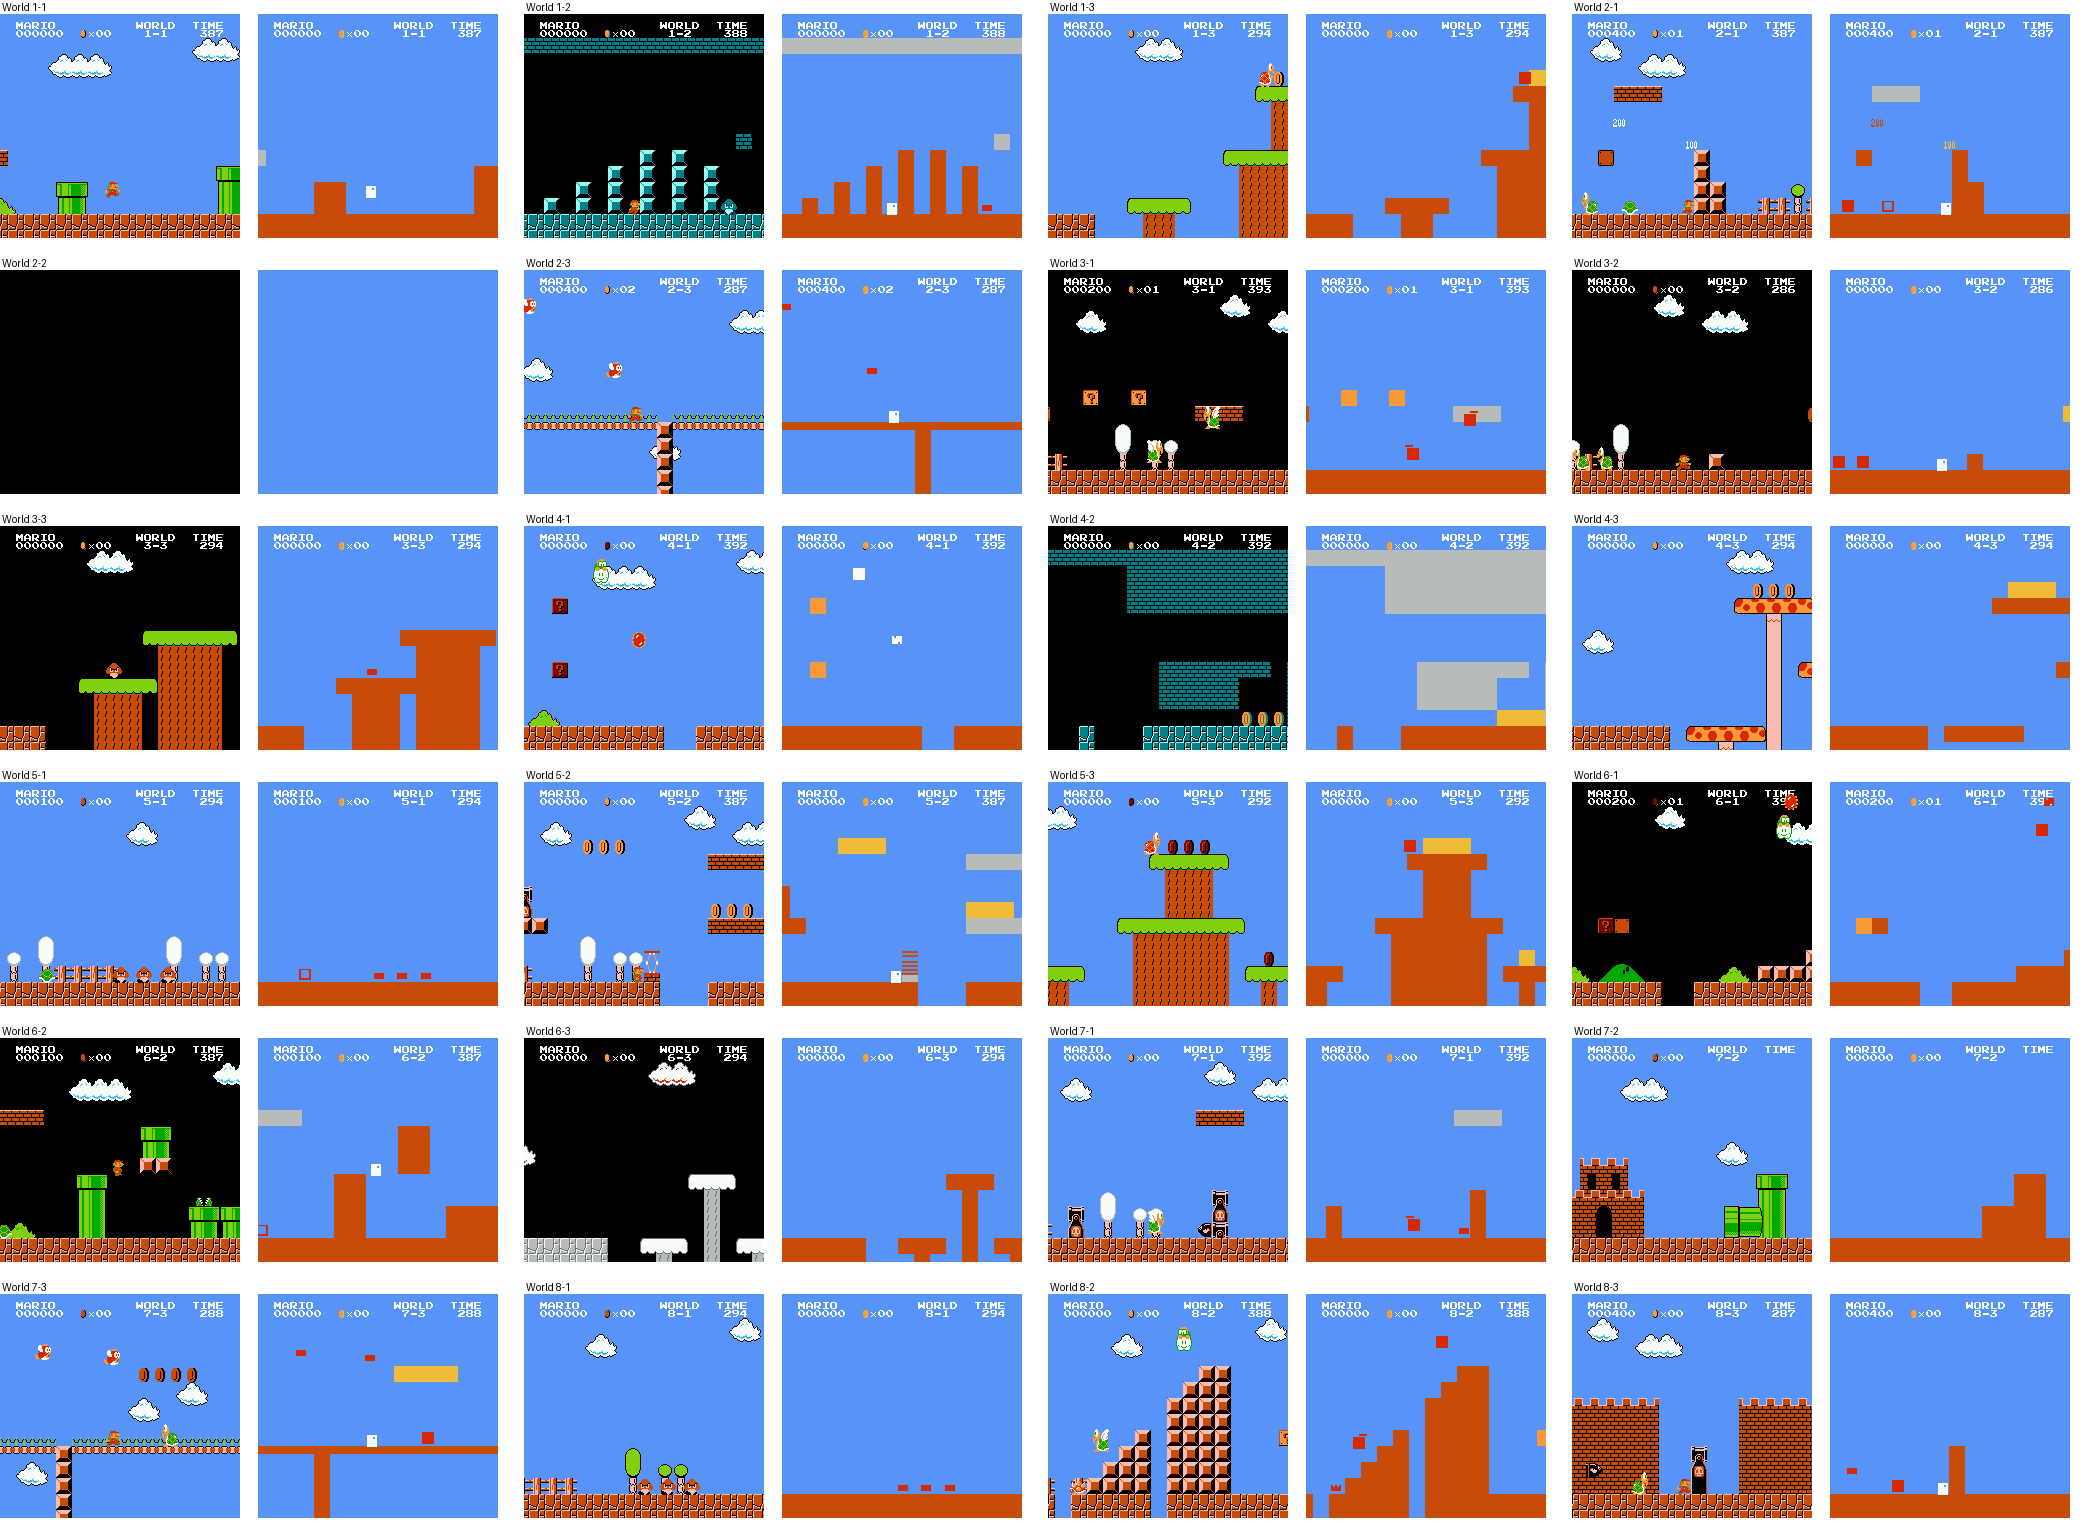
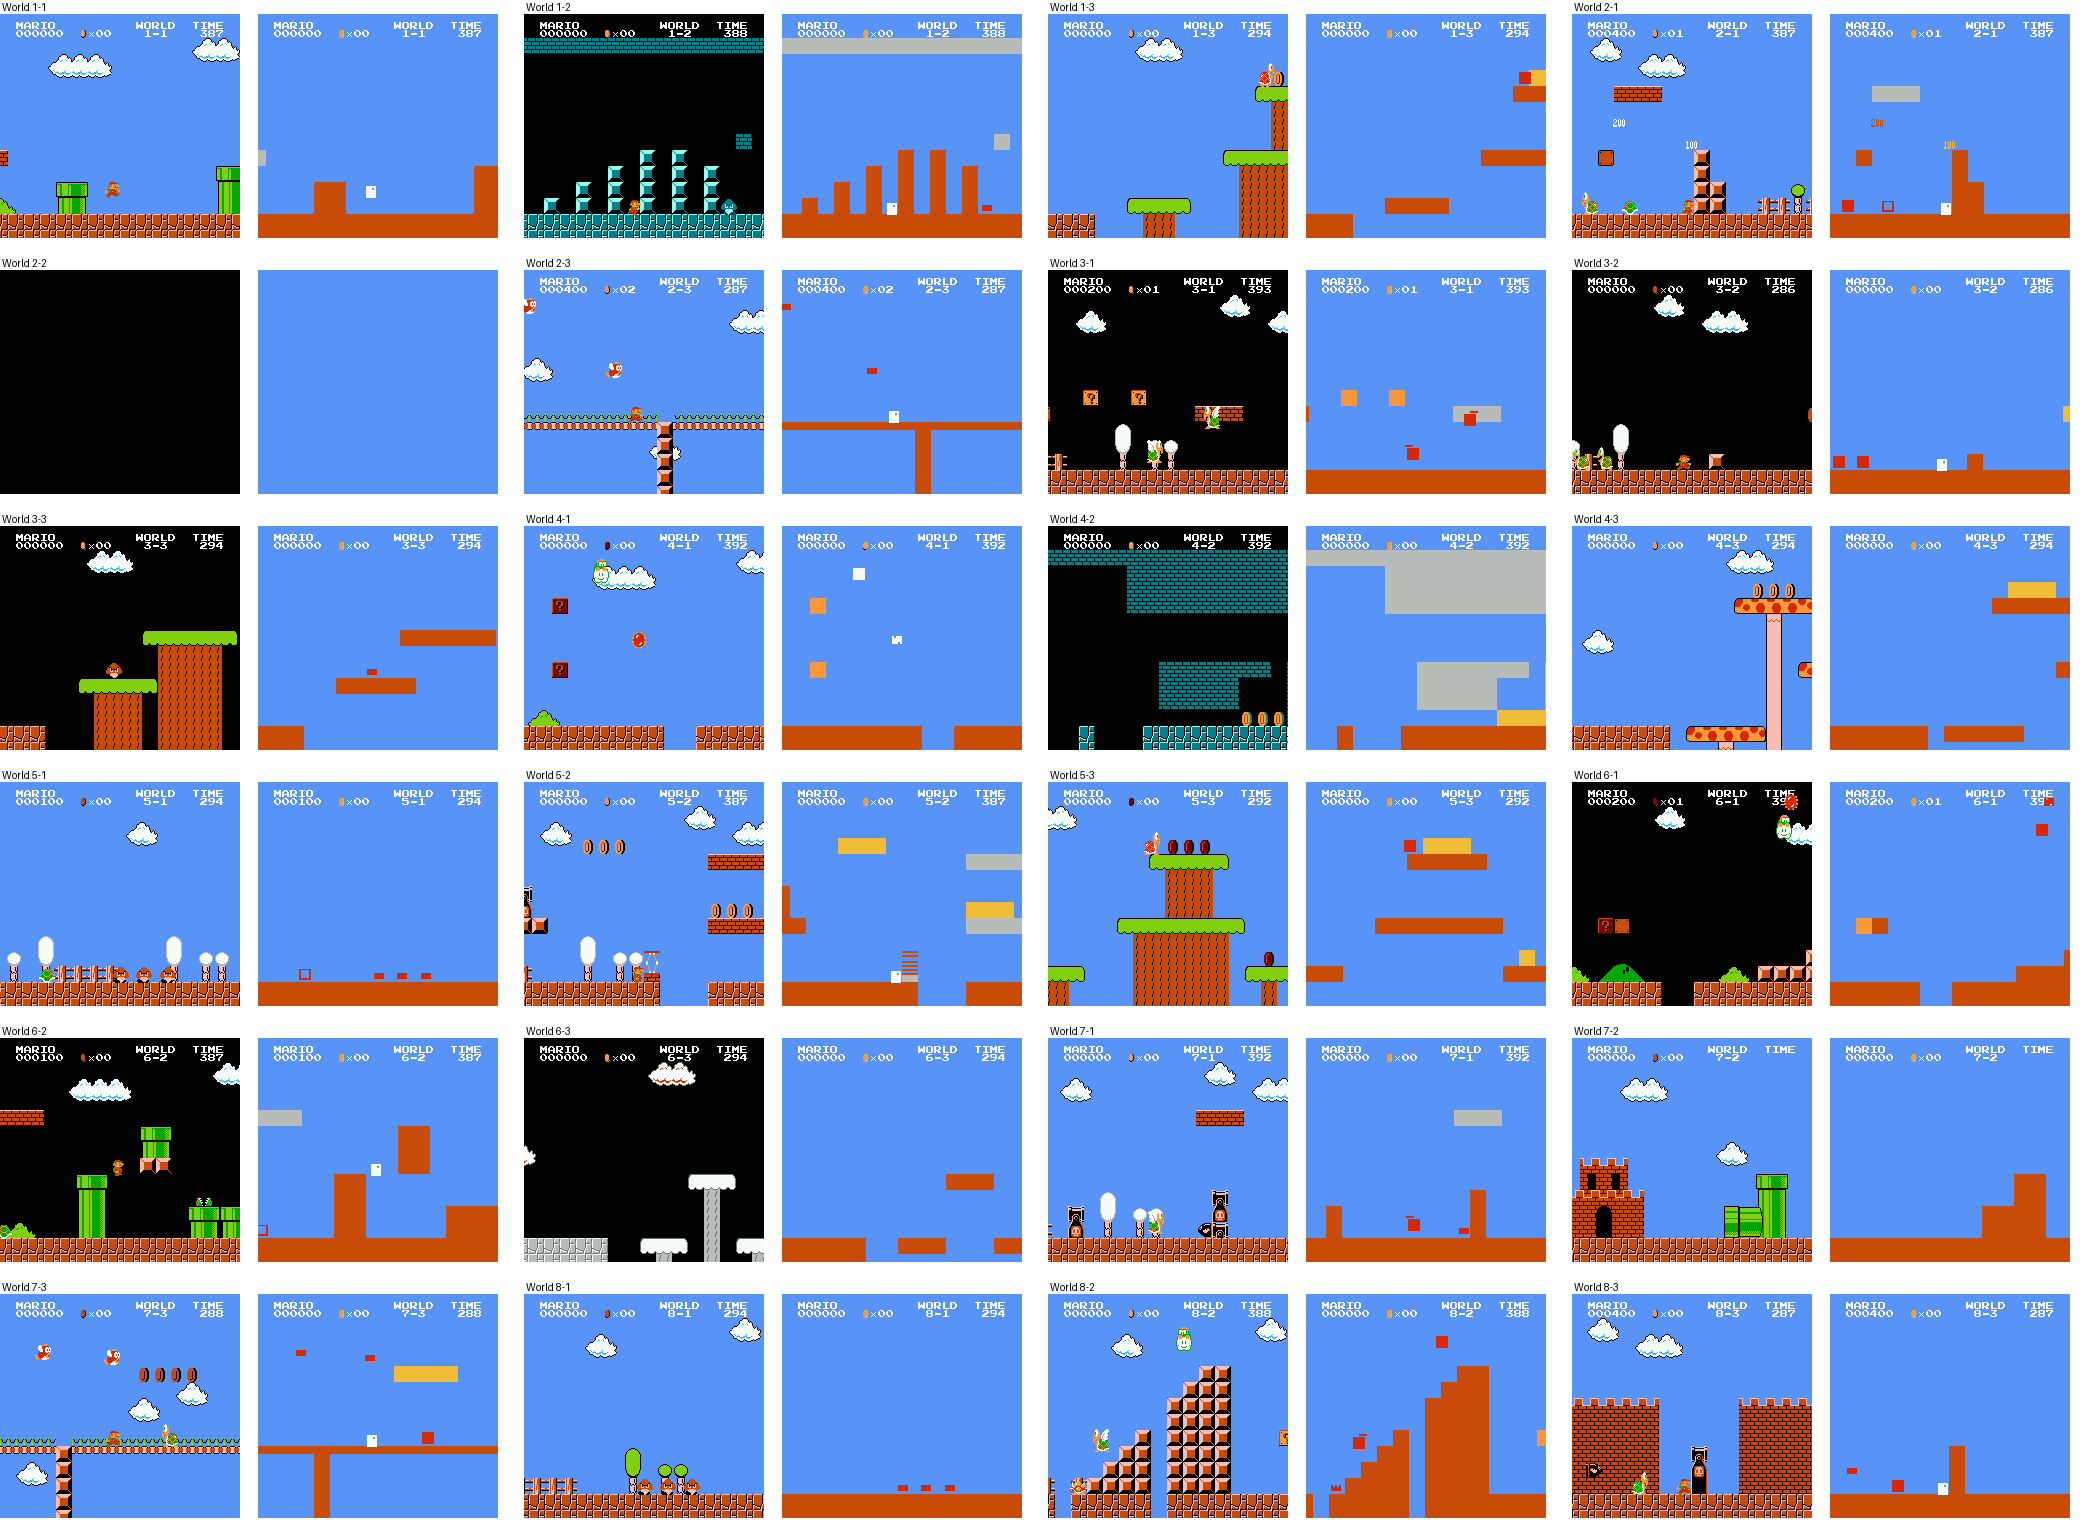
Make the stump under tree-top ledges transparent (decoration, never in the block buffer)

diff --git a/paper/manuscript.tex b/paper/manuscript.tex
@@ -128,9 +128,9 @@ The simplified game was designed under three constraints.
 \begin{enumerate}
   \item \textbf{Functional transparency.} Any element with no effect on gameplay is removed from
   the image, i.e.\ rendered as the uniform backdrop. This includes clouds, hills, bushes,
-  background trees and trunks, fences, chains, bridge guard-rails, the water surface line,
-  sea plants, balance-lift ropes and pulleys, the end-of-level castle, fireworks and brick
-  debris.
+  background trees, tree trunks and the stumps under tree-top ledges, mushroom stems, fences,
+  chains, bridge guard-rails, the water surface line, sea plants, balance-lift ropes and pulleys,
+  the end-of-level castle, fireworks and brick debris.
   \item \textbf{Semantic colour coding.} Every element the player can interact with is drawn as
   a flat rectangle of a single colour, and the colour is a semantic category that is the same in
   every level regardless of the original day, night, underground or water palette
@@ -478,7 +478,7 @@ are all data that the game copies into the PPU write buffer or the sprite list.
     PRG-ROM: metatile graphics table & 32 & pipe shafts (4) and castle (28) \\
     PRG-ROM: object graphics tables & 4 & power-up attribute table (2), Bloober frame 2 top row (2) \\
     PRG-ROM: sprite-palette operands & 7 & fireball, block coin, bumped brick, bumped ?-block, vine, score numbers, flower/star palette cycling \\
-    CHR-ROM: tile shapes & 5{,}520 & 244 sprite tiles and 96 background tiles rewritten \\
+    CHR-ROM: tile shapes & 5{,}528 & 244 sprite tiles and 97 background tiles rewritten \\
     \bottomrule
   \end{tabular}
   \label{tab:changes}
@@ -491,7 +491,7 @@ The simplified cartridge is generated deterministically from the original by a s
 (\texttt{code/simplify\_rom.py}) that contains the tile classification, the colour table and the
 list of PRG patches; every PRG patch asserts the original bytes before writing. The input is the
 original ROM of the \textit{mario} stimulus set (MD5 \texttt{811b027e\ldots}); the output has MD5
-\texttt{f80e6aa2\ldots}. Companion tools reproduce the sprite survey
+\texttt{71482f93\ldots}. Companion tools reproduce the sprite survey
 (\texttt{survey\_sprite\_tiles.py}), the collision-box survey (\texttt{hitbox\_survey.py}), the
 verification of Section~\ref{sec:verification} (\texttt{verify\_replays.py}) and the palette
 rewrite of savestates (\texttt{fix\_state\_palette.py}). The stimulus is distributed as a drop-in replacement of the

diff --git a/code/simplify_rom.py b/code/simplify_rom.py
@@ -124,7 +124,7 @@ _set([0x5D, 0x5E, 0x82, 0x83, 0x84, 0x85], 2)      # white-wall solid block (ter
 _set(range(0xC6, 0xCE), 2)                         # bullet bill cannon     (terrain)
 _set([0x2A, 0x40], 2)                              # cannon base            (terrain)
 _set([0xC1], 2)                                    # bridge                 (terrain)
-_set([0x52], 2)                                    # green ledge stump      (terrain)
+_set([0x52], None)                                 # green ledge stump under tree ledges: decoration, never in the block buffer
 _set(range(0x60, 0x6B), 2)                         # vertical pipes         (terrain)
 _set(range(0x86, 0x95), 2)                         # sideways pipes         (terrain)
 _set(range(0x4B, 0x52), 2)                         # tree-top ledges        (terrain)

diff --git a/docs/METHOD.md b/docs/METHOD.md
@@ -18,7 +18,7 @@ keeping every other aspect of the task constant:
 
 * everything that has no effect on gameplay (clouds, bushes, hills, trees,
   fences, castle decoration, water surface, sea plants, ropes and pulleys,
-  fireworks, brick debris, Lakitu's cloud, Paratroopa wings) is removed, i.e.
+  fireworks, brick debris, tree trunks and ledge stumps, mushroom stems, Lakitu's cloud, Paratroopa wings) is removed, i.e.
   rendered as the uniform backdrop;
 * every interactive block is drawn as a flat, single-colour square, and every
   sprite object (the player, enemies, items, projectiles) as a flat rectangle
@@ -238,7 +238,7 @@ to Mario's white so the change of state is visible without breaking the
 | iNES header | 0 | |
 | PRG-ROM code and level data | 0 | |
 | PRG-ROM presentation data | 199 | palette tables (156), metatile-graphics table (32), enemy-graphics and power-up-attribute tables (4), sprite-palette operands (7) |
-| CHR-ROM | 5520 | tile shapes |
+| CHR-ROM | 5528 | tile shapes |
 
 The seven operands are the immediate values that select a sprite palette for
 fireballs, block coins, bumped bricks, bumped ?-blocks, vines and floating
@@ -251,7 +251,7 @@ Bloober frame, whose tile is a body tile in the first frame.
 `code/simplify_rom.py ORIGINAL.nes OUTPUT.nes` rebuilds the ROM
 deterministically from the original ROM (md5 `811b027eaf99c2def7b933c5208636de`)
 and the tables in the script; every PRG patch asserts the original bytes
-before writing. The current ROM has md5 `f80e6aa2039a68ddd8258a21d3741738`.
+before writing. The current ROM has md5 `71482f93c1aa578d80df3f87d294e490`.
 The tool used for the earlier, hand-made versions of this ROM (SMB Utility)
 is no longer needed.
 

diff --git a/README.md b/README.md
@@ -74,7 +74,7 @@ tail -c +17 SuperMarioBros-Nes/rom.nes | sha1sum | cut -d' ' -f1 > SuperMarioBro
 
 The original ROM is the one annexed in `mario.stimuli`
 (md5 `811b027eaf99c2def7b933c5208636de`). The current simplified ROM has md5
-`f80e6aa2039a68ddd8258a21d3741738`. `--no-hitbox` gives full-size squares
+`71482f93c1aa578d80df3f87d294e490`. `--no-hitbox` gives full-size squares
 instead of collision-box rectangles, `--no-marks` removes the shape cues.
 
 ## Checking a ROM against recordings
